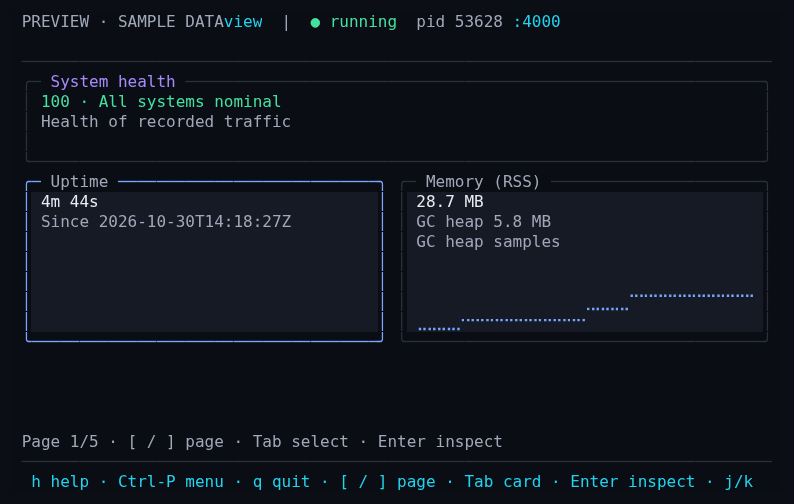
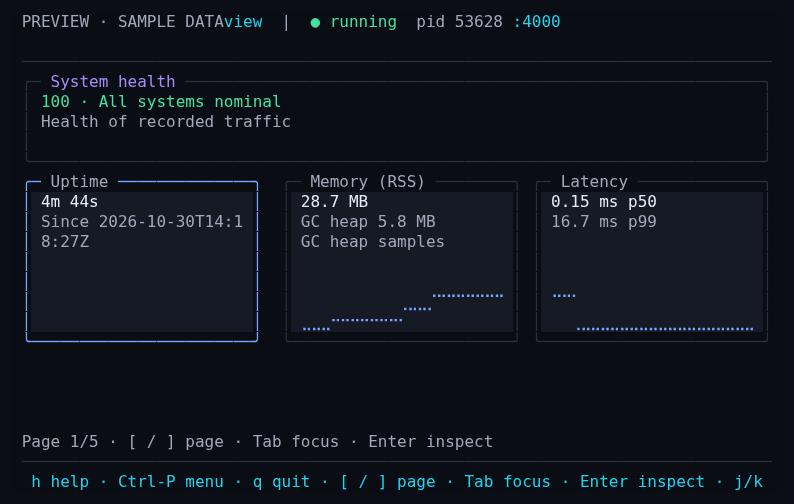
feat: align overview cards and add latest log and query panes

diff --git a/docs/getting-started/terminal-ui.md b/docs/getting-started/terminal-ui.md
@@ -6,7 +6,7 @@ description: Navigate Azu's development dashboard, inspect live data, and keep y
 
 ## Overview & visual demo
 
-`azu dev` combines Azu's browser dashboard metrics with local development tools. Its header identifies the application, section, process state, PID, and port. The sidebar groups observation, data, jobs, and development features.
+`azu dev` combines Azu's browser dashboard metrics with local development tools. Overview uses five aligned metric cards per row when space allows, followed by side-by-side latest logs and SQL queries. Tab focuses either feed, `j/k` or PgUp/PgDn scrolls it, and Enter opens its full inspector. Narrow terminals reduce columns; shorter terminals give the feeds a separate `[` / `]` page. Its header identifies the application, section, process state, PID, and port. The sidebar groups observation, data, jobs, and development features.
 
 <figure><img src="../assets/terminal-ui/mission-control/overview-theme-preview.png" alt="Azu Overview with a fixed sidebar and a paged metric grid"><figcaption><p>Real renderer, sample data. The grid adapts to your terminal.</p></figcaption></figure>
 
